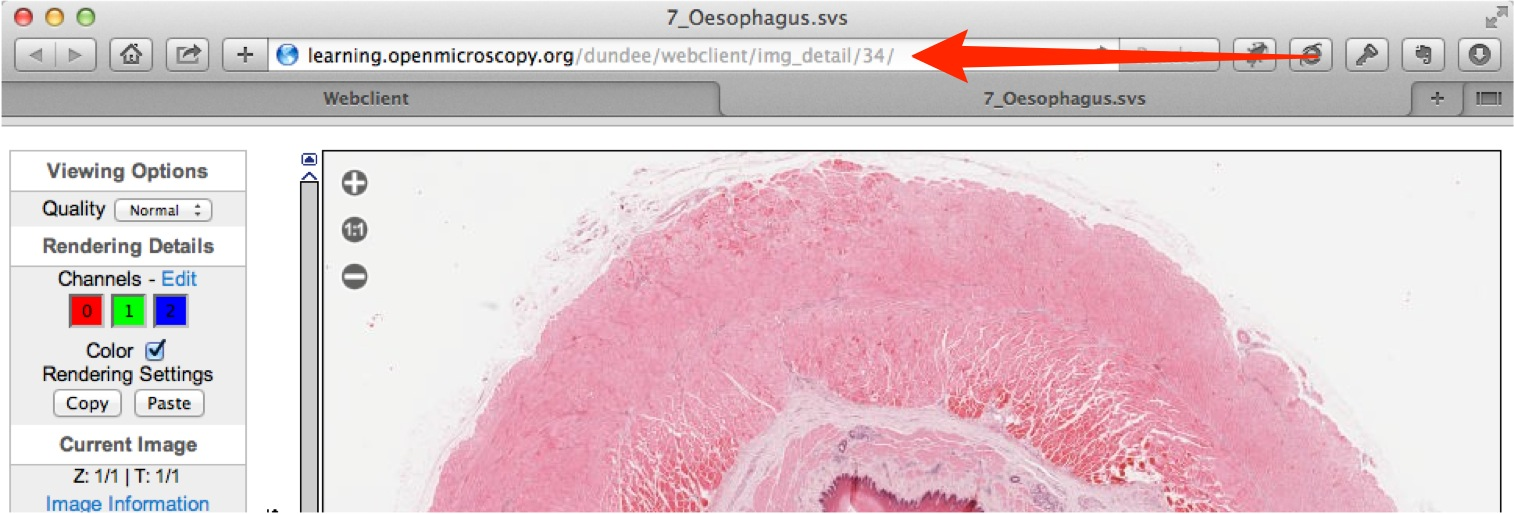
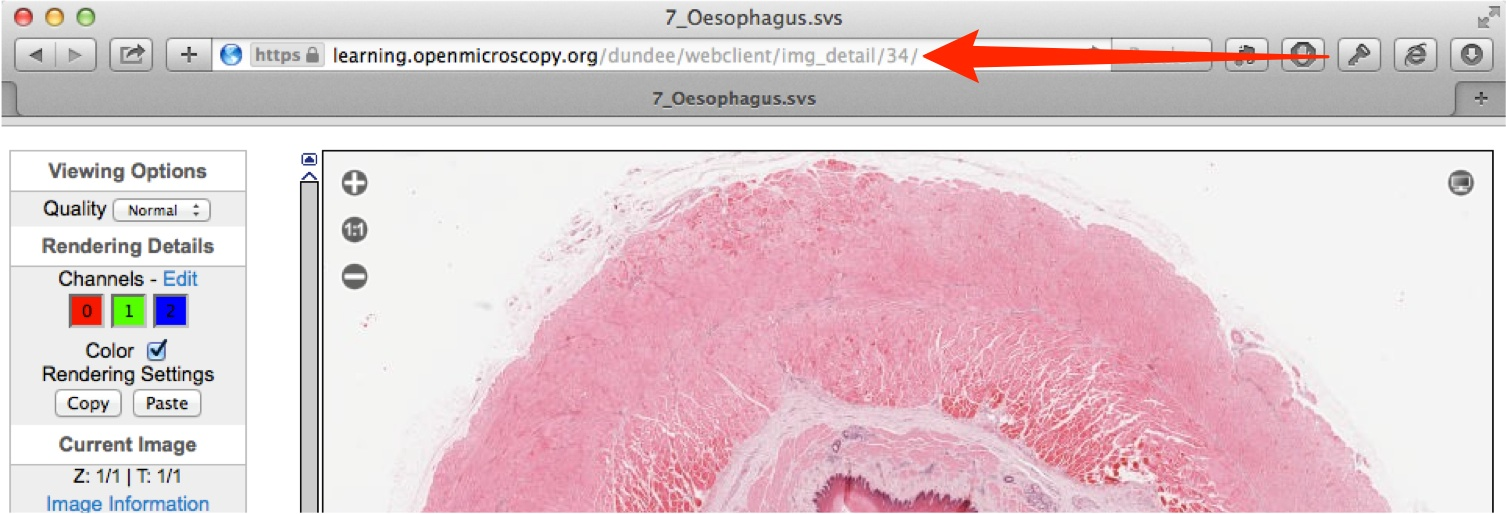
Update CLS specific doc.

diff --git a/cls-getting-started.html b/cls-getting-started.html
@@ -1,21 +1,22 @@
 ---
 layout: cls
 title: Getting Started with CLS OMERO
-menu-id:
 pdfs:
     - cls-omero.pdf
+description: The University of Dundee CLS has an OMERO server enabling students and staff to store image data centrally. The OMERO.insight client enables uploading, viewing and downloading of data from any computer or laptop on or off-campus.
 ---
 <div class="page-navigation">
+
 <h2>Contents</h2>
 
 <p>
+
 <a href="#insight">Downloading and installing OMERO.insight</a><br />
 <a href="#login">Logging in to OMERO</a><br />
 <a href="#groups">Joining Groups</a><br />
 <a href="#importing">Importing Images</a><br />
 <a href="#web">Using OMERO.web</a><br />
 <a href="#help">Help and Support</a><br />
-</p>
 
 </div><!-- End Page Navigation -->
 
@@ -31,9 +32,8 @@ pdfs:
 <ol class="step">
 
 <li>
-<p class="top_link"><a href="#top"><img src="../images/back_to_top.jpg" alt="back_to_top.jpg" style="float: right;"/></a></p>
 
-<p class="first"><a name="insight" id="insight"></a>Download the OMERO.insight client for your operating system from:
+<p class="first"><a class="anchor" name="insight" id="insight"></a>Download the OMERO.insight client for your operating system from:
 
 <p><span class="bold"><a href="http://downloads.openmicroscopy.org/latest/omero5" target="_blank" class="external-url">http://downloads.openmicroscopy.org/latest/omero5</a></span></p>
 
@@ -41,7 +41,7 @@ pdfs:
 <div class="line"><br /></div> <!-- end #line -->
 </div> <!-- end #line-block -->
 
-<img alt="../images/gettingStarted5Downloads.jpg" class="align-center" src="../images/gettingStarted5Downloads.jpg" style="width: 100%;" />
+<img alt="../images/gettingStarted5Downloads.jpg" class="align-center" src="images/gettingStarted5Downloads.jpg" style="width: 100%;" />
 
 <div class="line-block">
 <div class="line"><br /></div> <!-- end #line -->
@@ -56,7 +56,7 @@ pdfs:
 <div class="line"><br /></div> <!-- end #line -->
 </div> <!-- end #line-block -->
 
-<img alt="../images/gettingStarted5Zips.jpg" src="../images/gettingStarted5Zips.jpg" style="width: 80%; class="align-center" " />
+<img alt="../images/gettingStarted5Zips.jpg" src="images/gettingStarted5Zips.jpg" style="width: 80%; class="align-center" " />
 
 <div class="line-block">
 <div class="line"><br /></div> <!-- end #line -->
@@ -77,16 +77,15 @@ pdfs:
 </li>
 
 <li>
-<p class="top_link"><a href="#top"><img src="../images/back_to_top.jpg" alt="back_to_top.jpg" style="float: right;"/></a></p>
 
-<p class="first"><a name="login" id="login"></a>Open OMERO.insight client.</p>
+<p class="first"><a class="anchor" name="login" id="login"></a>Open OMERO.insight client.</p>
 <p>Click on the <span class="bold">Spanner</span> icon.</p>
 
 <div class="line-block">
 <div class="line"><br /></div> <!-- end #line -->
 </div> <!-- end #line-block -->
 
-<img alt="../images/gettingStartedSpanner.jpg" class="align-center" src="../images/gettingStartedSpanner.jpg" style="width: 75%;" />
+<img alt="../images/gettingStartedSpanner.jpg" class="align-center" src="images/gettingStartedSpanner.jpg" style="width: 75%;" />
 
 <div class="line-block">
 <div class="line"><br /></div> <!-- end #line -->
@@ -104,7 +103,7 @@ pdfs:
 <div class="line"><br /></div> <!-- end #line -->
 </div> <!-- end #line-block -->
 
-<img alt="images/nightshadeServer.jpg" class="align-center" src="images/nightshadeServer.jpg" style="width: 85%;" />
+<img alt="images/clsServer.jpg" class="align-center" src="images/clsServer.jpg" style="width: 85%;" />
 
 <div class="line-block">
 <div class="line"><br /></div> <!-- end #line -->
@@ -121,7 +120,7 @@ pdfs:
 <div class="line"><br /></div> <!-- end #line -->
 </div> <!-- end #line-block -->
 
-<img alt="images/nightshadeLogin.jpg" class="align-center" src="images/nightshadeLogin.jpg" style="width: 85%;" />
+<img alt="images/clsLogin.jpg" class="align-center" src="images/clsLogin.jpg" style="width: 85%;" />
 
 <div class="line-block">
 <div class="line"><br /></div> <!-- end #line -->
@@ -135,9 +134,7 @@ pdfs:
 
 <li>
 
-<p class="top_link"><a href="#top"><img src="../images/back_to_top.jpg" alt="back_to_top.jpg" style="float: right;"/></a></p>
-
-<p class="first"><a name="groups" id="groups"></a>When you log into OMERO for the first time, you will be in a "default" group, which is Private, so only you can see data you place in that group.
+<p class="first"><a class="anchor" name="groups" id="groups"></a>When you log into OMERO for the first time, you will be in a "default" group, which is Private, so only you can see data you place in that group.
 <p>Being a member of a read-only or read-annotate group in OMERO allows you to share data with other members of the group.</p>
 <p>Your lab or PI may have a group you wish to use for collaborating with colleagues.</p>
 <p>Ask your PI to add you to their group or send an email to the Nightshade 
@@ -145,7 +142,7 @@ pdfs:
   <!-- xxx link cut xxx -->
   <script language="JavaScript" type="text/javascript">
 					<!-- 
-						document.write("<a href='#' onClick='get_edress();return false;'>sysadmin</a>");
+						document.write("<a href='#' onClick='get_edress2();return false;'>sysadmin</a>");
 					// --> 
 				</script>
 	  <noscript>
@@ -168,9 +165,9 @@ giving the names of the groups you wish to be added to.</p>
 
 <li>
 
-<p class="top_link"><a href="#top"><img src="../images/back_to_top.jpg" alt="back_to_top.jpg" style="float: right;"/></a></p>
+<p class="top_link"><a href="#top"><img src="images/back_to_top.png" alt="Image for link to top of page" style="float: right;"/></a></p>
 
-<p class="first"><a name="importing" id="importing"></a>Click the <span class="bold">Importer</span> icon to add image data.</p>
+<p class="first"><a class="anchor" name="importing" id="importing"></a>Click the <span class="bold">Importer</span> icon to add image data.</p>
 <p>Use the <span class="bold">File Chooser</span> in the Importer window to select and queue data for import.</p>
 <p>In the location window, if you belong to more than one group, select the group you wish to import the data into.</p>
 <p>Choose existing, or create new Projects, Datasets or Screens to import the data into.</p>
@@ -179,7 +176,7 @@ giving the names of the groups you wish to be added to.</p>
 <div class="line"><br /></div> <!-- end #line -->
 </div> <!-- end #line-block -->
 
-<img alt="../images/gettingStartedDataManager.jpg" class="align-center" src="../images/gettingStartedDataManager.jpg" style="width: 85%;" />
+<img alt="../images/gettingStartedDataManager.jpg" class="align-center" src="images/gettingStartedDataManager.jpg" style="width: 85%;" />
 
 <div class="line-block">
 <div class="line"><br /></div> <!-- end #line -->
@@ -188,26 +185,23 @@ giving the names of the groups you wish to be added to.</p>
 </li>
 
 <li>
-<p class="top_link"><a href="#top"><img src="../images/back_to_top.jpg" alt="back_to_top.jpg" style="float: right;"/></a></p>
 
-<p class="first"><a name="web" id="web"></a>OMERO.web allows you to view your data from any web browser with the URL:</p>
+<p class="first"><a class="anchor" name="web" id="web"></a>OMERO.web allows you to view your data from any web browser with the URL:</p>
 <p><span class="bold"><a href="http://nightshade.openmicroscopy.org" target="_blank">nightshade.openmicroscopy.org</a></span></p>
 <p>You do not have to enter a server name.</p>
-<p>OMERO.web uses the same login, and has the same functionality, as OMERO.insight, except OMERO.web cannot import data or create Regions of Interest (ROI).</p>
+<p>OMERO.web uses the same login, and has the same functionality, as OMERO.insight, except OMERO.web cannot import data or create Regions of Interest (ROIs).</p>
 
 <div class="line-block">
 <div class="line"><br /></div> <!-- end #line -->
 </div> <!-- end #line-block -->
 
-<img alt="images/nightshadeWeb.jpg" class="align-center" src="images/nightshadeWeb.jpg" style="width: 100%;" />
+<img alt="images/clsWeb.jpg" class="align-center" src="images/clsWeb.jpg" style="width: 100%;" />
 
 <div class="line-block">
 <div class="line"><br /></div> <!-- end #line -->
 </div> <!-- end #line-block -->
 
-<p class="top_link"><a href="#top"><img src="../images/back_to_top.jpg" alt="back_to_top.jpg" style="float: right;"/></a></p>
-
-<p><a name="help" id="help"></a>Detailed User Guides for common workflows using OMERO.insight and OMERO.web are available online and for download at:</p>
+<p><a class="anchor" name="help" id="help"></a>Detailed User Guides for common workflows using OMERO.insight and OMERO.web are available online and for download at:</p>
 
 <p><span class="bold"><a href="http://help.openmicroscopy.org" target="_blank">help.openmicroscopy.org</a></span></p>
 
@@ -233,6 +227,8 @@ giving the names of the groups you wish to be added to.</p>
 <div class="line-block">
 <div class="line"><br /></div> <!-- end #line -->
 </div> <!-- end #line-block -->
+
+<p class="top_link"><a href="#top"><img src="images/back_to_top.png" alt="Image for link to top of page" style="float: right;"/></a></p>
 
 <div class="line-block">
 <div class="line"><br /></div> <!-- end #line -->

diff --git a/cls-public-demo.html b/cls-public-demo.html
@@ -1,0 +1,119 @@
+---
+layout: cls
+title: Public Share on OMERO
+menu-id: l1-other
+pdfs:
+    - dropbox.pdf
+description: This page demonstrates the use of the CLS OMERO server to make images on the server viewable by people who are not registered users, for example on a web page.
+---
+<h1>Public Share on OMERO</h1>
+
+<p>This page demonstrates the use of the CLS OMERO server Nightshade to make images on the server viewable by people who are not registered users, for example on a web page.</p>
+
+<p>Images to be made visible need to be placed in the PUBLIC group on Nightshade. Email the Nightshade  
+<!-- This code generates the email link -->
+<!-- xxx link cut xxx -->
+<script language="JavaScript" type="text/javascript">
+					<!-- 
+						document.write("<a href='#' onClick='get_edress();return false;'>sysadmin</a>");
+					// --> 
+				</script>
+	  <noscript>
+			  Email address protected against spammers
+</noscript>
+
+to be made a member of the PUBLIC group to enable you to do this.</p>
+
+<p>Clicking on the thumbnail will open the image in the full viewer. The image can be zoomed and scrolled, rendering settings changed and ROI's viewed. Changes to settings will not be saved.</p>
+
+<p>The HTML code required to embed thumbnails that link to an image in the PUBLIC group is as follows, where the number is the ID of the image required.</p>
+
+<p>HTML to embed the thumbnail:</p>
+<p><span class="code-example">src="https://nightshade.openmicroscopy.org/webgateway/render_thumbnail/3925540/"</span></p>
+
+<p>Thumbnails have a default width of 64 px but can be displayed at any width by customising the thumbnail URL - the required size in pixels at the end of the URL:</p>
+<p><span class="code-example">src="https://nightshade.openmicroscopy.org/webgateway/render_thumbnail/3925540/<span class="red">200</span>/"</span></p>
+
+<p>HTML for the link to the full image:</p>
+<p><span class="code-example">"https://nightshade.openmicroscopy.org/webgateway/img_detail/3925540" target="_blank"</span></p>
+
+<h2>Thumbnail Gallery</h2>
+
+<p>Click on a thumbnail to see the image in the full OMERO.web viewer (opens in a new tab).</p>
+
+<div class="gallery">
+
+<div class="gallery-image">
+<a href="https://nightshade.openmicroscopy.org/webgateway/img_detail/3925540" 	target="_blank">
+<img src="https://nightshade.openmicroscopy.org/webgateway/render_thumbnail/3925540/200/"/></a>
+  
+<div class="desc">Wild type lamin-B envelope</div>
+<div class="attribute">Data from JCB: Civelekoglu-Scholey et al.,<br/>JCB, doi: <a href="http://jcb.rupress.org/content/188/1/49">10.1083/jcb.200908150</a></div>
+</div>
+
+</div>
+
+<div class="gallery">
+
+<div class="gallery-image">
+<a href="https://nightshade.openmicroscopy.org/webgateway/img_detail/3925541" 	target="_blank">
+<img src="https://nightshade.openmicroscopy.org/webgateway/render_thumbnail/3925541/96/"/></a>
+  
+<div class="desc">P-TRE_12_R3D_D3D</div>
+
+</div>
+
+<div class="gallery-image">
+<a href="https://nightshade.openmicroscopy.org/webgateway/img_detail/3925542" 	target="_blank">
+<img src="https://nightshade.openmicroscopy.org/webgateway/render_thumbnail/3925542/96/"/></a>
+  
+<div class="desc">P-TRE_15_R3D_D3D</div>
+
+</div>
+
+
+<div class="gallery-image">
+<a href="https://nightshade.openmicroscopy.org/webgateway/img_detail/3925543" 	target="_blank">
+<img src="https://nightshade.openmicroscopy.org/webgateway/render_thumbnail/3925543/96/"/></a>
+
+<div class="desc">P-TRE_19_R3D_D3D</div>
+
+</div>
+
+</div>
+
+<div class="gallery">
+
+<div class="gallery-image">
+<a href="https://nightshade.openmicroscopy.org/webgateway/img_detail/3925545" 	target="_blank">
+<img src="https://nightshade.openmicroscopy.org/webgateway/render_thumbnail/3925545/96/"/></a>
+
+<div class="desc">P-TRE_23_R3D_D3D</div>
+
+</div>
+
+<div class="gallery-image">
+<a href="https://nightshade.openmicroscopy.org/webgateway/img_detail/3925546" 	target="_blank">
+<img src="https://nightshade.openmicroscopy.org/webgateway/render_thumbnail/3925546/96/"/></a>
+
+<div class="desc">P-TRE_22_R3D_D3D</div>
+
+</div>
+
+</div>
+
+</div>
+
+<div class="line-block">
+<div class="line"><br /></div> <!-- end #line -->
+</div> <!-- end #line-block -->
+
+<p class="top_link"><a href="#top"><img src="images/back_to_top.png" alt="Image for link to top of page" style="float: right;"/></a></p>
+
+<div class="line-block">
+<div class="line"><br /></div> <!-- end #line -->
+</div> <!-- end #line-block -->
+
+<div class="line-block">
+<div class="line"><br /></div> <!-- end #line -->
+</div> <!-- end #line-block -->

diff --git a/_layouts/cls.html b/_layouts/cls.html
@@ -79,17 +79,20 @@
                 <div id="page">
                     
                     <div id="page-header">
-                        <h1>{{ page.title }}</h1>
 
                         {% for pdf in page.pdfs %}
-                        <p class="actions"><a href="pdf/{{ pdf }}">Download PDF</a></p>
+                        <a href="http://downloads.openmicroscopy.org/help/pdfs/{{ pdf }}" target="_blank"> <img src="{{ site.baseurl }}/images/pdf_download.png" width="32" height="41" alt="Download PDF" class="header-right" /></a>
                         {% endfor %}
-                    </div> <!-- page-header -->
-
+                        
+                         <h1>{{ page.title }}</h1>
+                         
+                    </div> <!-- End page-header -->
                     <div id="page-body">
 
                         <div id="page-contents">
-
+                            
+                            <a class="top" id="top">Top</a>
+                            
                             {{ content }}
 
                         </div> <!-- page-contents -->

diff --git a/css/display.css b/css/display.css
@@ -270,6 +270,44 @@ img.header-right {
 	text-align: center;
 }
 
+.gallery {
+	width: 100%;
+	display: inline-block;
+}
+
+.gallery-image {
+  margin: 15px;
+  height:auto;
+  width:auto;
+  float:left;
+  text-align:center;
+  }
+
+.gallery-image img {
+  display:inline;
+  margin:3px;
+  border:1px solid #ffffff;
+  }
+
+.gallery-image a:hover img {
+  border:1px solid #0000ff;
+  }
+  
+.desc {
+  text-align:center;
+  font-weight:normal;
+  width: 100%;
+	margin: 5px;
+}
+
+.attribute {
+	font-size: 70%;
+	text-align: left;
+}
+
+.red {
+	color: #ff2600;
+}
 
 /*Line spacers*/
 

diff --git a/virtual-microscope.html b/virtual-microscope.html
@@ -107,6 +107,7 @@ description: The Virtual Microscope is a University of Dundee OMERO based system
 		<p>&nbsp;&nbsp;&nbsp;&nbsp;- clicking on the red box in the thumbnail and dragging it,</p>
 	<p>or - clicking on the desired location within the thumbnail,</p>
 	<p>or - clicking and dragging the main image.</p>
+	<p>Click on the <span class="bold">Full Screen</span> icon in the top-right corner of the viewer to expand the window.</p>
 
 <div class="line-block">
 <div class="line"><br /></div> <!-- end #line -->
